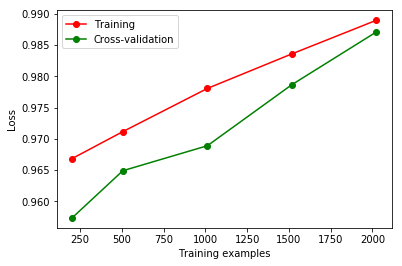
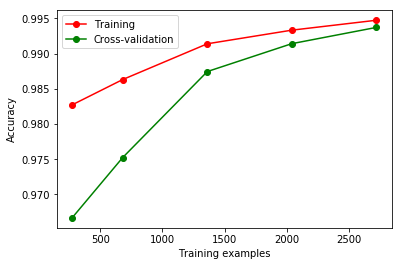
整理代码

diff --git a/face_classifier.py b/face_classifier.py
@@ -17,11 +17,11 @@ Created on Mon Oct  1 11:00:25 2018
 
 
 import numpy as np
-import pickle
+#import pickle
 import time
 from feature_extract import resize_image, facenet, img_to_encoding
 from sklearn.model_selection import cross_val_score, ShuffleSplit, KFold, learning_curve
-from sklearn.neighbors import KNeighborsClassifier
+#from sklearn.neighbors import KNeighborsClassifier
 from sklearn.externals import joblib
 import matplotlib.pyplot as plt
 from sklearn.svm import SVC
@@ -47,12 +47,12 @@ class Dataset:
     
     # 加载数据集
     def load(self):
-        # 加载数据集到内存，pickle方式
-#        file_embeddings = open(self.path_name + 'embeddings.pkl', 'rb')
+#        # 加载数据集到内存，pickle方式，改用上下文管理器形式
+#        with open(self.path_name + 'embeddings.pkl', 'rb') as file_embeddings:
+#            X_embeddings = pickle.load(file_embeddings) # 考虑这里分批执行，否则可能内存不够，这里在img_to_encoding函数里通过predict的batch_size参数实现
 #        # 加载128维特征向量
-#        X_embeddings = pickle.load(file_embeddings) # 考虑这里分批执行，否则可能内存不够，这里在img_to_encoding函数里通过predict的batch_size参数实现
-#        file_labels = open(self.path_name + 'labels.pkl', 'rb')
-#        labels = pickle.load(file_labels)
+#        with open(self.path_name + 'labels.pkl', 'rb') as file_labels:
+#            labels = pickle.load(file_labels)
 #        hdf5方式加载数据
 #        KeyError: "Unable to open object (object 'face_embeddings' doesn't exist)"
         with h5py.File(self.path_name + 'face_embeddings.hdf5', 'r') as f_faces:
@@ -62,7 +62,7 @@ class Dataset:
             X_embeddings = f_faces['face_embeddings'][:]
         with h5py.File(self.path_name + 'face_labels.hdf5', 'r') as f_labels:
             labels = f_labels['face_labels'][:]
-        # 输出训练集、验证集和测试集的数量
+        # 输出训练数据集的维数和数量
         print('X_train shape', X_embeddings.shape)
         print('y_train shape', labels.shape)
         print(X_embeddings.shape[0], 'train samples')
@@ -71,54 +71,66 @@ class Dataset:
         self.y_train = labels
 
 # 定义并训练KNN Classifier模型
-class Knn_Model:
-    # 初始化构造方法
-    def __init__(self):
-        self.model = None
-    def cross_val_and_build_model(self, dataset):
-        k_range = range(1,31)
-#        k_range = range(1,60)
-        k_scores = []
-        print("k vs accuracy:")
-        for k in k_range:
-            knn = KNeighborsClassifier(n_neighbors = k)
-#            cv = KFold(n_splits = 10, shuffle = True, random_state = 0)
-            # https://github.com/scikit-learn/scikit-learn/issues/6361
-            # http://scikit-learn.org/stable/modules/cross_validation.html#computing-cross-validated-metrics
-            cv = ShuffleSplit(random_state = 0) # n_splits : int, default 10; test_size : float, int, None, default=0.1，设置了random_state = 0，每次的数据划分相同，训练结果也相同
-#            score = cross_val_score(knn, dataset.X_train, dataset.y_train, cv = 10, scoring = 'accuracy').mean() # cv参数取整数的时候默认用KFold方法划分数据，这里两次运行的结果一样，可能说明KFold里的random_state参数设为了整数
-            score = cross_val_score(knn, dataset.X_train, dataset.y_train, cv = cv, scoring = 'accuracy').mean() # numpy.ndarray.mean
-            k_scores.append(score)
-            print(k, ":", score)
-        # 可视化结果
-        plt.plot(k_range, k_scores)
-        plt.xlabel('Value of K for KNN')
-        plt.ylabel('Cross-Validated Accuracy')
-        plt.show()
-        n_neighbors_max = np.argmax(k_scores) + 1
-        print("The best k is: ", n_neighbors_max)
-        print("The accuracy is: ", k_scores[n_neighbors_max - 1], "When n_neighbor is: ", n_neighbors_max)
-        
-        self.model = KNeighborsClassifier(n_neighbors = n_neighbors_max)
-        
-        # 目前k=1时最佳，准确率达到88%+，可能原因参考https://stackoverflow.com/questions/36637112/why-does-k-1-in-knn-give-the-best-accuracy
-        # Data tests have high similarity with the training data; The boundaries between classes are very clear
-        # In general, the value of k may reduce the effect of noise on the classification, but makes the boundaries between each classification becomes more blurred.
-        # 使用shuffle后准确率显著提升，k=1时达到98.9%+，我理解的是shuffle后训练集和测试集的数据类别分布更均衡，shuffle前可能数据的类别分布不均衡，导致准确率较低。
-    def train(self, dataset):
-        self.model.fit(dataset.X_train, dataset.y_train)
-    def save_model(self, file_path):
-        #save model
-        joblib.dump(self.model, file_path)
-    def load_model(self, file_path):
-        self.model = joblib.load(file_path)
-    def predict(self, image):
-        image = resize_image(image)
-        image_embedding = img_to_encoding(np.array([image]), facenet)
-        start = time.time()
-        label = self.model.predict(image_embedding) # predict方法返回值是array of shape [n_samples]，因此下面要用label[0]从array中取得数值，https://scikit-learn.org/stable/modules/generated/sklearn.neighbors.KNeighborsClassifier.html#sklearn.neighbors.KNeighborsClassifier.predict
-        log("Predicting one face using knn model took {} seconds.".format(time.time() - start))
-        return label[0]
+#class Knn_Model:
+#    # 初始化构造方法
+#    def __init__(self):
+#        self.model = None
+#    def cross_val_and_build_model(self, dataset):
+#        k_range = range(1,31)
+##        k_range = range(1,60)
+#        k_scores = []
+#        print("k vs accuracy:")
+#        for k in k_range:
+#            knn = KNeighborsClassifier(n_neighbors = k)
+##            cv = KFold(n_splits = 10, shuffle = True, random_state = 0)
+#            # https://github.com/scikit-learn/scikit-learn/issues/6361
+#            # http://scikit-learn.org/stable/modules/cross_validation.html#computing-cross-validated-metrics
+#            cv = ShuffleSplit(random_state = 0) # n_splits : int, default 10; test_size : float, int, None, default=0.1，设置了random_state = 0，每次的数据划分相同，训练结果也相同
+##            score = cross_val_score(knn, dataset.X_train, dataset.y_train, cv = 10, scoring = 'accuracy').mean() # cv参数取整数的时候默认用KFold方法划分数据，这里两次运行的结果一样，可能说明KFold里的random_state参数设为了整数
+#            score = cross_val_score(knn, dataset.X_train, dataset.y_train, cv = cv, scoring = 'accuracy').mean() # numpy.ndarray.mean
+#            k_scores.append(score)
+#            print(k, ":", score)
+#        # 可视化结果
+#        plt.plot(k_range, k_scores)
+#        plt.xlabel('Value of K for KNN')
+#        plt.ylabel('Cross-Validated Accuracy')
+#        plt.show()
+#        n_neighbors_max = np.argmax(k_scores) + 1
+#        print("The best k is: ", n_neighbors_max)
+#        print("The accuracy is: ", k_scores[n_neighbors_max - 1], "When n_neighbor is: ", n_neighbors_max)
+#        
+#        self.model = KNeighborsClassifier(n_neighbors = n_neighbors_max)
+#        
+#        # 目前k=1时最佳，准确率达到88%+，可能原因参考https://stackoverflow.com/questions/36637112/why-does-k-1-in-knn-give-the-best-accuracy
+#        # Data tests have high similarity with the training data; The boundaries between classes are very clear
+#        # In general, the value of k may reduce the effect of noise on the classification, but makes the boundaries between each classification becomes more blurred.
+#        # 使用shuffle后准确率显著提升，k=1时达到98.9%+，我理解的是shuffle后训练集和测试集的数据类别分布更均衡，shuffle前可能数据的类别分布不均衡，导致准确率较低。
+#    def train(self, dataset):
+#        self.model.fit(dataset.X_train, dataset.y_train)
+##        cv1 = ShuffleSplit(random_state = 0)
+##        train_sizes, train_accuracies, test_accuracies = learning_curve(self.model, dataset.X_train, dataset.y_train, cv = cv1, scoring = 'accuracy', train_sizes=[0.1, 0.25, 0.5, 0.75, 1])
+##        train_accuracies_mean = np.mean(train_accuracies, axis = 1)
+##        test_accuracies_mean = np.mean(test_accuracies, axis = 1)
+##        print('train accuracies: ', train_accuracies_mean) # train_accuracy都是1，因为knn本质是记住所有训练数据
+##        print('test accuracies: ', test_accuracies_mean)
+##        plt.plot(train_sizes, train_accuracies_mean, 'o-', color="r", label="Training")
+##        plt.plot(train_sizes, test_accuracies_mean, 'o-', color="g", label="Cross-validation")
+##        plt.xlabel("Training examples")
+##        plt.ylabel("Accuracy")
+##        plt.legend(loc="best")
+##        plt.show()
+#    def save_model(self, file_path):
+#        #save model
+#        joblib.dump(self.model, file_path)
+#    def load_model(self, file_path):
+#        self.model = joblib.load(file_path)
+#    def predict(self, image):
+#        image = resize_image(image)
+#        image_embedding = img_to_encoding(np.array([image]), facenet)
+#        start = time.time()
+#        label = self.model.predict(image_embedding) # predict方法返回值是array of shape [n_samples]，因此下面要用label[0]从array中取得数值，https://scikit-learn.org/stable/modules/generated/sklearn.neighbors.KNeighborsClassifier.html#sklearn.neighbors.KNeighborsClassifier.predict
+#        log("Predicting one face using knn model took {} seconds.".format(time.time() - start))
+#        return label[0]
 
 # https://teamtreehouse.com/community/getting-a-syntax-error-at-main
 # 注意这里遇到了一个bug，在下面的代码上提示invalid syntax，其实是因为上面的print语句少了最后一个圆括号
@@ -130,69 +142,69 @@ class Knn_Model:
 # knn k-fold思路，对knn不同k值循环，每次循环使用k折交叉验证，画出不同k值对应的evaluate准确率曲线，找到准确率最高的k值
  
 # svm分类思路：
-#class svm_Model:
-#    def __init__(self):
-#        self.model = None
-#    def build_model(self):
-#        self.model = SVC(kernel = 'linear', probability = True, decision_function_shape = 'ovo')
-#    def train(self, dataset):
-#        self.model.fit(dataset.X_train, dataset.y_train)
-##        https://morvanzhou.github.io/tutorials/machine-learning/sklearn/3-3-cross-validation2/
-#        cv = ShuffleSplit(random_state = 0)
-#        train_sizes, train_accuracies, test_accuracies = learning_curve(self.model, dataset.X_train, dataset.y_train, cv = cv, scoring = 'accuracy', train_sizes=[0.1, 0.25, 0.5, 0.75, 1])
-#        train_accuracies_mean = np.mean(train_accuracies, axis = 1)
-#        test_accuracies_mean = np.mean(test_accuracies, axis = 1)
-#        print('train accuracies: ', train_accuracies_mean)
-#        print('test accuracies: ', test_accuracies_mean)
-#        plt.plot(train_sizes, train_accuracies_mean, 'o-', color="r", label="Training")
-#        plt.plot(train_sizes, test_accuracies_mean, 'o-', color="g", label="Cross-validation")
-#        plt.xlabel("Training examples")
-#        plt.ylabel("Loss")
-#        plt.legend(loc="best")
-#        plt.show()
-#    def save_model(self, file_path):
-#        joblib.dump(self.model, file_path)
-#    def load_model(self, file_path):
-#        self.model = joblib.load(file_path)
-#    def predict(self, image):
-#        image = resize_image(image)
-#        image_embedding = img_to_encoding(np.array([image]), facenet)
-#        start = time.time()
-#        label = self.model.predict(image_embedding) # predict方法返回值是array of shape [n_samples]，因此下面要用label[0]从array中取得数值，https://scikit-learn.org/stable/modules/generated/sklearn.neighbors.KNeighborsClassifier.html#sklearn.neighbors.KNeighborsClassifier.predict
-#        log("Predicting one face using svm model took {} seconds.".format(time.time() - start))
-#        return label[0]
+class svm_Model:
+    def __init__(self):
+        self.model = None
+    def build_model(self):
+        self.model = SVC(kernel = 'linear', decision_function_shape = 'ovo')
+    def train(self, dataset):
+        self.model.fit(dataset.X_train, dataset.y_train)
+#        https://morvanzhou.github.io/tutorials/machine-learning/sklearn/3-3-cross-validation2/
+        cv = ShuffleSplit(random_state = 0)
+        train_sizes, train_accuracies, test_accuracies = learning_curve(self.model, dataset.X_train, dataset.y_train, cv = cv, scoring = 'accuracy', train_sizes=[0.1, 0.25, 0.5, 0.75, 1])
+        train_accuracies_mean = np.mean(train_accuracies, axis = 1)
+        test_accuracies_mean = np.mean(test_accuracies, axis = 1)
+        print('train accuracies: ', train_accuracies_mean)
+        print('test accuracies: ', test_accuracies_mean)
+        plt.plot(train_sizes, train_accuracies_mean, 'o-', color="r", label="Training")
+        plt.plot(train_sizes, test_accuracies_mean, 'o-', color="g", label="Cross-validation")
+        plt.xlabel("Training examples")
+        plt.ylabel("Accuracy")
+        plt.legend(loc="best")
+        plt.show()
+    def save_model(self, file_path):
+        joblib.dump(self.model, file_path)
+    def load_model(self, file_path):
+        self.model = joblib.load(file_path)
+    def predict(self, image):
+        image = resize_image(image)
+        image_embedding = img_to_encoding(np.array([image]), facenet)
+        start = time.time()
+        label = self.model.predict(image_embedding) # predict方法返回值是array of shape [n_samples]，因此下面要用label[0]从array中取得数值，https://scikit-learn.org/stable/modules/generated/sklearn.neighbors.KNeighborsClassifier.html#sklearn.neighbors.KNeighborsClassifier.predict
+        log("Predicting one face using svm model took {} seconds.".format(time.time() - start))
+        return label[0]
        
 if __name__ == "__main__":
 #    pickle方式加载数据
-#    dataset = Dataset('./dataset_pkl/')
+    dataset = Dataset('./dataset_pkl/')
+    start = time.time()
+    dataset.load()
+    log("Loading pkl dataset took {} seconds.".format(time.time() - start))
+#    hdf5方式加载数据
+#    dataset = Dataset('./dataset_h5/')
 #    start = time.time()
 #    dataset.load()
-#    log("Loading pkl dataset took {} seconds.".format(time.time() - start))
-#    hdf5方式加载数据
-    dataset = Dataset('./dataset_h5/')
-#    start = time.time()
-    dataset.load()
 #    日志重复输出问题，参考https://blog.csdn.net/huilan_same/article/details/51858817
 #    log("Loading hdf5 dataset took {} seconds.".format(time.time() - start))
 #    用一张图片测试knn和svm模型
     image = cv2.imread('./dataset_image/me/175.jpg')
-    model = Knn_Model()
+#    model = Knn_Model()
 #    model.cross_val_and_build_model(dataset)
 #    model.train(dataset)
 #    model.save_model('./model/knn_classifier.model')
-    start = time.time()
-    model.load_model('./model/knn_classifier.model')
-    log("Loading knn model took {} seconds.".format(time.time() - start))
-#    start1 = time.time()
-    model.predict(image)
-#    log("Predicting one face using knn model took {} seconds.".format(time.time() - start1))
-#    model = svm_Model()
-#    model.build_model()
-#    model.train(dataset)
-#    model.save_model('./model/svm_classifier.model')
 #    start = time.time()
-#    model.load_model('./model/svm_classifier.model')
-#    log("Loading svm model took {} seconds.".format(time.time() - start))
+#    model.load_model('./model/knn_classifier.model')
+#    log("Loading knn model took {} seconds.".format(time.time() - start))
 #    start1 = time.time()
 #    model.predict(image)
-#    log("Predicting one face using svm model took {} seconds.".format(time.time() - start1))
+#    log("Predicting one face using knn model took {} seconds.".format(time.time() - start1))
+    model = svm_Model()
+    model.build_model()
+    model.train(dataset)
+    model.save_model('./model/svm_classifier.model')
+    start = time.time()
+    model.load_model('./model/svm_classifier.model')
+    log("Loading svm model took {} seconds.".format(time.time() - start))
+    start1 = time.time()
+    model.predict(image)
+    log("Predicting one face using svm model took {} seconds.".format(time.time() - start1))

diff --git a/feature_extract.py b/feature_extract.py
@@ -9,7 +9,7 @@ import os
 import numpy as np
 import cv2
 from keras.models import load_model
-import pickle
+#import pickle
 import h5py
 
 IMAGE_SIZE = 160 # 指定图像大小
@@ -44,7 +44,6 @@ def resize_image(image, height = IMAGE_SIZE, width = IMAGE_SIZE):
     # 调整图像大小并返回图像，目的是减少计算量和内存占用，提升训练速度
     return cv2.resize(constant, (height, width))
 
-# path_name是当前工作目录，后面会由os.getcwd()获得
 def load_dataset(data_dir):
     images = [] # 用来存放图片
     labels = [] # 用来存放类别标签
@@ -56,7 +55,7 @@ def load_dataset(data_dir):
         person_pics = os.listdir(person_dir) # 某一类人脸路径下的全部人脸数据文件
         for face in person_pics: # face是某一分类文件夹下人脸图片数据的文件名
             img = cv2.imread(os.path.join(person_dir, face)) # 通过os.path.join得到人脸图片的绝对路径
-            if img is None: # 遇到部分数据有点问题，报错'NoneType' object has no attribute 'shape'
+            if img is None: # 遇到部分数据有点问题，报错'NoneType' object has no attribute 'shape'，所以要判断一下图片是否为空
                 pass
             else:
                 img = resize_image(img, IMAGE_SIZE, IMAGE_SIZE)
@@ -82,7 +81,7 @@ def img_to_encoding(images, model):
     images = np.around(images/255.0, decimals=12) # np.around是四舍五入，其中decimals是保留的小数位数,这里进行了归一化
     # https://stackoverflow.com/questions/44972565/what-is-the-difference-between-the-predict-and-predict-on-batch-methods-of-a-ker
     if images.shape[0] > 1:
-        embedding = model.predict(images, batch_size = 256) # predict是对多个batch进行预测，这里的128是尝试后得出的内存能承受的最大值
+        embedding = model.predict(images, batch_size = 256) # predict是对多个batch进行预测，这里的256是尝试后得出的内存能承受的最大值
     else:
         embedding = model.predict_on_batch(images) # predict_on_batch是对单个batch进行预测
     # 报错，operands could not be broadcast together with shapes (2249,128) (2249,)，因此要加上keepdims = True
@@ -91,7 +90,7 @@ def img_to_encoding(images, model):
     return embedding
 
 
-# 注意这里必须加上if __name__ == "__main__":，否则运行face_classifier.py的时候也会运行load_dataset函数，而不是直接加载存好的数据，会很慢
+# 注意这里必须加上if __name__ == "__main__":，否则运行face_classifier.py的时候也会运行load_dataset函数，而不是直接加载存好的数据，会很慢，因为在face_classifier.py里加载了resize_image, facenet, img_to_encoding用来定义knn和SVM的predict函数
 # 参考  http://blog.konghy.cn/2017/04/24/python-entry-program/
 if __name__ == "__main__":
     images, labels = load_dataset('./dataset_image/')
@@ -99,13 +98,11 @@ if __name__ == "__main__":
     X_embeddings = img_to_encoding(images, facenet) # 考虑这里分批执行，否则可能内存不够，这里在img_to_encoding函数里通过predict的batch_size参数实现
 
     # pickle保存数据
-#    file_embeddings = open('./dataset_pkl/embeddings.pkl', 'wb')
-#    pickle.dump(X_embeddings, file_embeddings)
-#    file_embeddings.close()
-#
-#    file_labels = open('./dataset_pkl/labels.pkl', 'wb')
-#    pickle.dump(labels, file_labels)
-#    file_labels.close
+#    with open('./dataset_pkl/embeddings.pkl', 'wb') as file_embeddings:
+#        pickle.dump(X_embeddings, file_embeddings)
+#    
+#    with open('./dataset_pkl/labels.pkl', 'wb') as file_labels:
+#        pickle.dump(labels, file_labels)
     
 #    hdf5保存数据
 #    创建h5文件的语句必须写在if __name__ == "__main__":里，否则运行face_classifier.py的时候会执行创建h5文件的语句

diff --git a/face_recognition.py b/face_recognition.py
@@ -4,6 +4,7 @@ Created on Tue Sep 11 17:33:58 2018
 
 @author: 123
 """
+import os
 from keras import backend as K
 K.set_image_data_format('channels_first')
 import cv2
@@ -22,7 +23,8 @@ color = (0, 255, 0)
 classifier = cv2.CascadeClassifier('haarcascade_frontalface_alt2.xml') # 加载分类器
 #捕获指定摄像头的实时视频流
 cap = cv2.VideoCapture(0)
-name_list = ['Lin', 'Bill', 'Unknown']
+
+name_list = os.listdir('./dataset_image/')
 def mark_face(name):
     cv2.rectangle(frame, (x - 10, y - 10), (x + w + 10, y + h + 10), color, thickness = 2)
     cv2.putText(frame, name, 
@@ -48,13 +50,8 @@ while cap.isOpened():
                     break
                 else:
                     faceID = model.predict(image)
-#                print(faceID) # [0]
-#                print(type(faceID)) # <class 'numpy.ndarray'>
-#                print(faceID.shape) # (1,)
-                    for i in range(len(name_list)):
-                        if faceID == i:
-                            name = name_list[i]
-                            mark_face(name)
+                    name = name_list[faceID]
+                    mark_face(name)
         cv2.imshow("Detecting your face.", frame)
         
         #等待10毫秒看是否有按键输入
